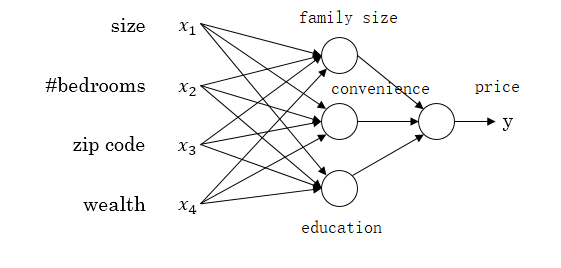
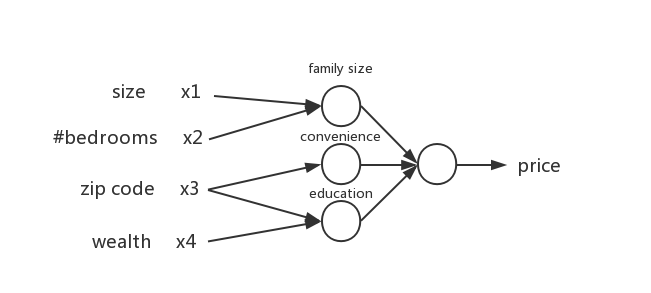
add info in nn-intro

diff --git a/_posts/2017-08-11-Neural-Network.md b/_posts/2017-08-11-Neural-Network.md
@@ -27,15 +27,19 @@ permalink: /deep-learning/neural-network-intro
 
 ![network](../images/deep-learning/simplegraph.png)
 
-x1, x2, x3 便是你上述所想的种种，最后通过权衡决策，输出的 y 便是最后 “跑” 的结论。
+x1, x2, x3 便是你脑子闪过的种种想法，最后通过权衡决策，输出的 y 便是最后 “跑” 的结论。当然，这图在机器学习领域有一个专有名词：**感知器 (Perceptron)**
+
+一个感知器接受多个输入（x1，x2，x3...），产生一个输出（output），好比神经末梢感受各种外部环境的变化，最后产生电信号。
 
 ---
 
 ## 多层次神经网络
 
-上述神经网络属于最简单的类型，而实际的神经网络往往更加复杂，很多中间层，最后产生结果。
+单个的感知器构成了一个简单的决策模型，已经可以拿来用了。真实世界中，实际的决策模型则要复杂得多，是由多个感知器组成的多层神经网络。
 
 ![multilayer](../images/deep-learning/multilayer.png)
+
+---
 
 下面利用房价预测的例子来解释多层神经网络。
 

diff --git a/about.md b/about.md
@@ -29,7 +29,7 @@ public: true
 
 ### 大二
 
-* C++ 造了一堆数[**据结构轮子**](https://github.com/qyb225/DSA/tree/master/inc)：红黑树，B树……
+* C++ 造了一堆[**数据结构轮子**](https://github.com/qyb225/DSA/tree/master/inc)：红黑树，B树……
 
 * 和舍友开发了仿生命线的文字冒险 UWP 游戏 [**Lifeline-MidnightSun**](https://github.com/qyb225/MidnightSun)
 
